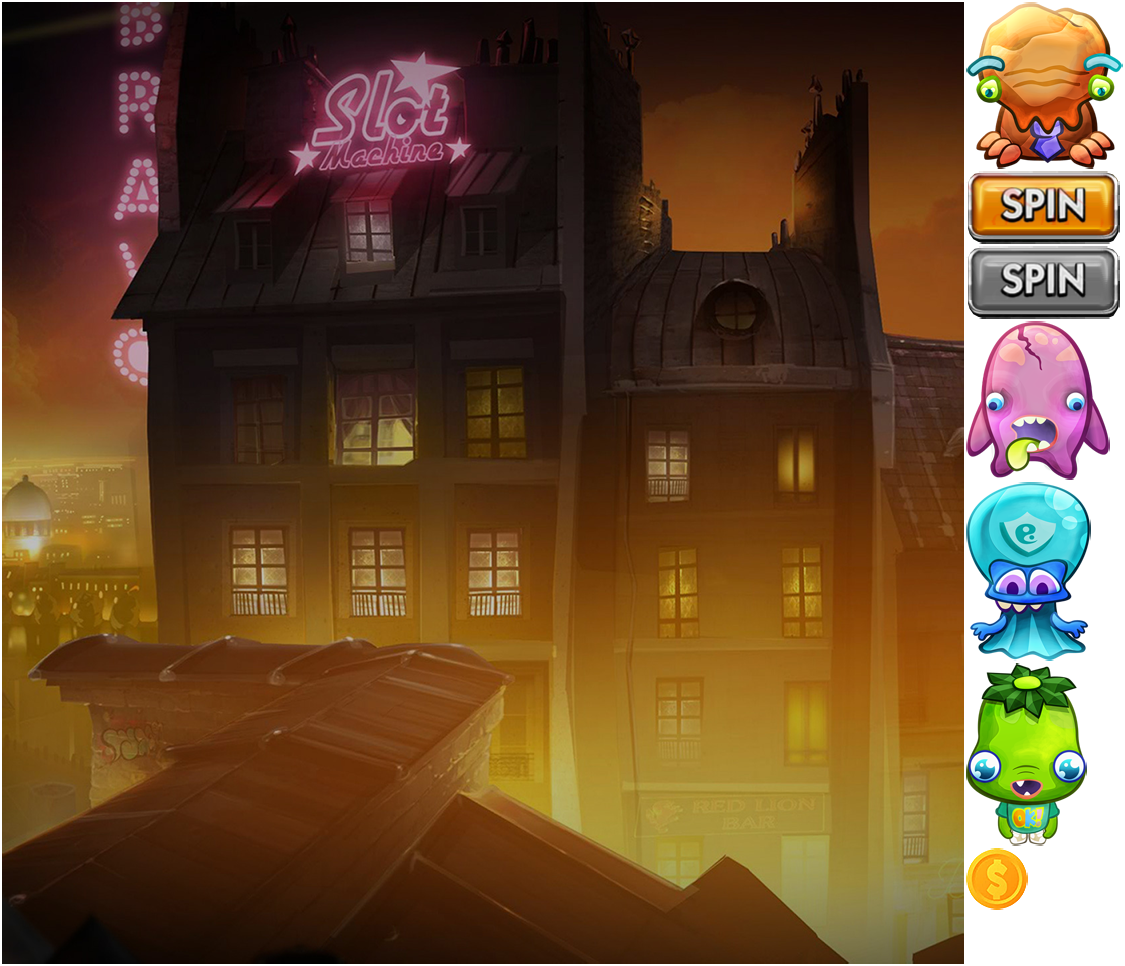
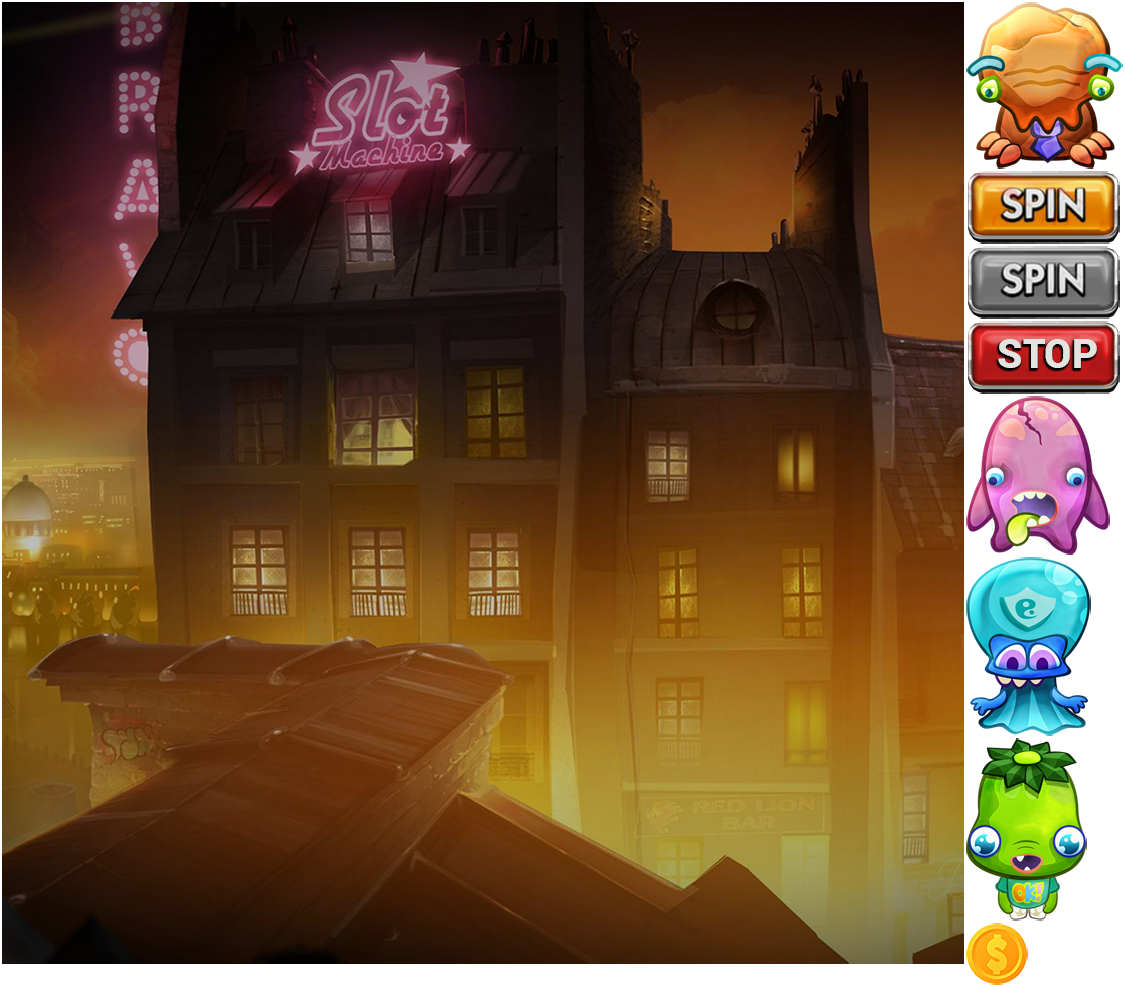
win indicator: interstitial commit

diff --git a/src/framework/view/view.js b/src/framework/view/view.js
@@ -4,6 +4,7 @@ import MachineButton from "../components/machineButton";
 import BalanceMeter from "../components/balanceMeter";
 import Paytable from "../components/paytable";
 import WinLineIndicator from "../components/winLineIndicator";
+import WinIndicator from "../components/winIndicator";
 
 export default class View extends PIXI.Container{
     constructor(app, model) {
@@ -12,6 +13,7 @@ export default class View extends PIXI.Container{
         this._app = app;
         this._model = model;
 
+        this._isSpinning = false;
         this.setup();
     }
 
@@ -19,6 +21,7 @@ export default class View extends PIXI.Container{
         this.createBackground();
         this.createReels();
         this.createWinLine();
+        this.createWinIndicator();
         this.createSpinButton();
         this.createBalanceMeter();
         this.createPaytable();
@@ -60,13 +63,19 @@ export default class View extends PIXI.Container{
         this.addChild(this._winLine);
     }
 
+    createWinIndicator(){
+        this._winIndicator = new WinIndicator();
+        this._winIndicator.updateWinText(0);
+        this.addChild(this._winIndicator);
+    }
+
     createSpinButton(){
         let texture = PIXI.loader.resources["atlas"].textures["spinButton.png"];
         this._machineButton = new MachineButton(texture);
         this._machineButton.interactive = true;
         this._machineButton.buttonMode = true;
         this._machineButton.on('pointerdown', (function(){
-            this.onMachineButtonTapped();
+            this.onMachineButtonTapped(this._isSpinning);
         }).bind(this));
 
         this.addChild(this._machineButton);
@@ -83,15 +92,23 @@ export default class View extends PIXI.Container{
     }
 
     spin(combination, reward){
+        this._isSpinning = true;
         this._reelsStopped = 0;
 
-        this._machineButton.disable();
-        this._machineButton.interactive = false;
+        this._winIndicator.updateWinText(0);
+
+        this._machineButton.changeToStopButton();
 
         this._currentReward = reward;
 
         for (let i = 0; i < this._reels.length; i++){
             this._reels[i].spin(combination.reelPositions[i]);
+        }
+    }
+
+    instantStop(){
+        for (let i = 0; i < this._reels.length; i++){
+            this._reels[i].instantStop();
         }
     }
 
@@ -110,6 +127,7 @@ export default class View extends PIXI.Container{
         if (this._reelsStopped === this._model.REEL_AMOUNT){
             if (this._currentReward > 0)
                 this._winLine.show();
+            this._isSpinning = false;
             this.onAllReelsComplete();
         }
     }
@@ -161,6 +179,10 @@ export default class View extends PIXI.Container{
             this._paytable.scale.set(1, 1);
             this._paytable.position.set(0, this._reelWrapper.position.y - this._reelWrapper.height * 0.5 - this._paytable.height - 20);
         }
+
+        if (this._winIndicator){
+            this._winIndicator.position.set(0, this._balanceMeter.position.y + 70);
+        }
     }
 
     applyLayoutLandscape(){
@@ -182,12 +204,16 @@ export default class View extends PIXI.Container{
 
         if (this._paytable){
             this._paytable.position.x = (this._app.screen.width * 0.5 - this._paytable.width * 0.5) / this.scale.y - 30;
-            this._paytable.position.y = -this._app.screen.height * 0.5 / this.scale.y + this._paytable.height * 0.5 + 50;
+            this._paytable.position.y = -this._reelWrapper.position.y - this._paytable.height * 0.5;
         }
 
         if (this._winLine){
             this._winLine.scale.set(this._reelWrapper.scale.x, this._reelWrapper.scale.y);
             this._winLine.position.set(this._reelWrapper.position.x, this._reelWrapper.position.y);
+        }
+
+        if (this._winIndicator){
+            this._winIndicator.position.set(this._paytable.position.x, this._reelWrapper.position.y + 70);
         }
     }
 

diff --git a/src/framework/components/reel.js b/src/framework/components/reel.js
@@ -77,7 +77,18 @@ export default class Reel extends PIXI.Container{
     spin(targetPosition){
         targetPosition += this._model.reels[this._index].length;
 
-        TweenMax.to(this, 2 + this._index, {_currentPosition:`+=${targetPosition}`, onComplete:(function(){
+        // TODO: make sure second roll stops reels at the correct positions
+
+        this._currentTargetPosition = targetPosition;
+        this._spinTween = TweenMax.to(this, 2 + this._index, {_currentPosition:`+=${targetPosition}`, onComplete:(function(){
+                // this._currentPosition = targetPosition%(this._model.reels[this._index].length);
+                this.onSpinComplete();
+            }).bind(this), ease:Sine.easeInOut});
+    }
+
+    instantStop(){
+        this._spinTween.kill();
+        this._spinTween = TweenMax.to(this, 0, {_currentPosition:`+=${ this._currentTargetPosition - this._currentPosition}`, onComplete:(function(){
                 // this._currentPosition = targetPosition%(this._model.reels[this._index].length);
                 this.onSpinComplete();
             }).bind(this), ease:Sine.easeInOut});

diff --git a/src/framework/controller/controller.js b/src/framework/controller/controller.js
@@ -31,7 +31,7 @@ export default class Controller {
 
     createView(){
         this._view = new View(this._app, this._model);
-        this._view.onMachineButtonTapped(this.onSpinTapped.bind(this));
+        this._view.onMachineButtonTapped(this.onMachineButtonTapped.bind(this));
         this._view.onAllReelsComplete(this.onAllReelsComplete.bind(this));
 
         this._app.stage.addChild(this._view);
@@ -50,8 +50,11 @@ export default class Controller {
         this._view.position.y = this._app.screen.height * 0.5;
     }
 
-    onSpinTapped(){
-        if (this.canSpin()){
+    onMachineButtonTapped(isSpinning){
+        if (isSpinning){
+            this._view.instantStop();
+        }
+        else if (this.canSpin()){
             this._model.balance -= this._model.currentBet;
             this._view.updateBalance(this._model.balance);
 

diff --git a/src/framework/components/winIndicator.js b/src/framework/components/winIndicator.js
@@ -1,3 +1,5 @@
+import * as PIXI from "pixi.js";
+
 export default class WinIndicator extends PIXI.Container{
     constructor() {
         super();
@@ -6,6 +8,14 @@ export default class WinIndicator extends PIXI.Container{
     }
 
     setup(){
+        this._text = new PIXI.Text('',{fontFamily : 'gamefont', fontSize: 50, fill : 0xffffff, align : 'center'});
+        this._text.anchor.set(0.5, 0.5);
+        this._text.stroke = 0x050402;
+        this._text.strokeThickness = 6;
+        this.addChild(this._text);
+    }
 
+    updateWinText(value){
+        this._text.text = `WIN: $${value}`;
     }
 }

diff --git a/src/framework/components/rewardCalculator.js b/src/framework/components/rewardCalculator.js
@@ -9,6 +9,7 @@ export default class RewardCalculator {
         for (let i = 0; i < this._model.paytable.anyThree.length; i++){
             // reward += this.checkAnyThree(combination, this._model._paytable.anyThree[i].index, this._model._paytable.anyThree[i].reward);
             let anyThree = this.checkAnyThree(combination, this._model.paytable.anyThree[i].index, this._model.paytable.anyThree[i].reward);
+            return anyThree;
             // if (anyThree === 0)
             //     reward += this.checkLeftMiddle();
             // else

diff --git a/src/framework/components/machineButton.js b/src/framework/components/machineButton.js
@@ -11,7 +11,7 @@ export default class MachineButton extends PIXI.Sprite{
         this.texture = PIXI.loader.resources["atlas"].textures["spinButton.png"];
     }
 
-    disable(){
-        this.texture = PIXI.loader.resources["atlas"].textures["spinButtonDisabled.png"];
+    changeToStopButton(){
+        this.texture = PIXI.loader.resources["atlas"].textures["stopButton.png"];
     }
 }

diff --git a/src/framework/components/balanceMeter.js b/src/framework/components/balanceMeter.js
@@ -17,6 +17,6 @@ export default class BalanceMeter extends PIXI.Container{
     }
 
     updateBalance(value){
-        this._text.text = `YOUR BALANCE: ${value}`;
+        this._text.text = `YOUR BALANCE: $${value}`;
     }
 }
